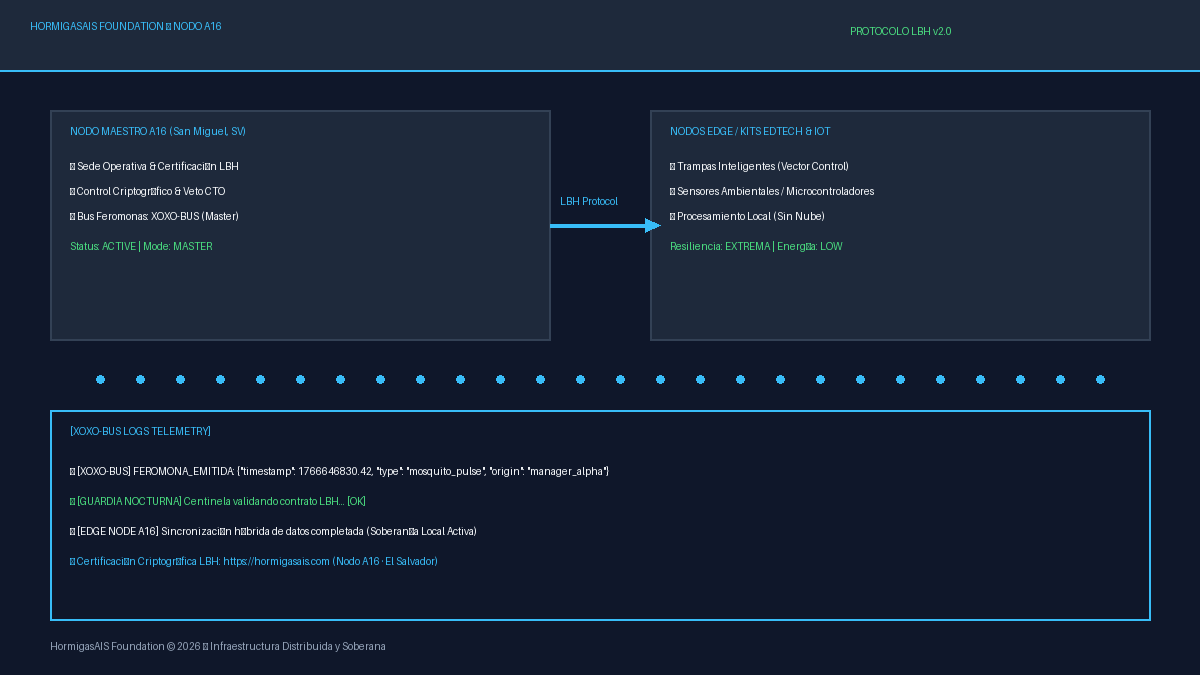
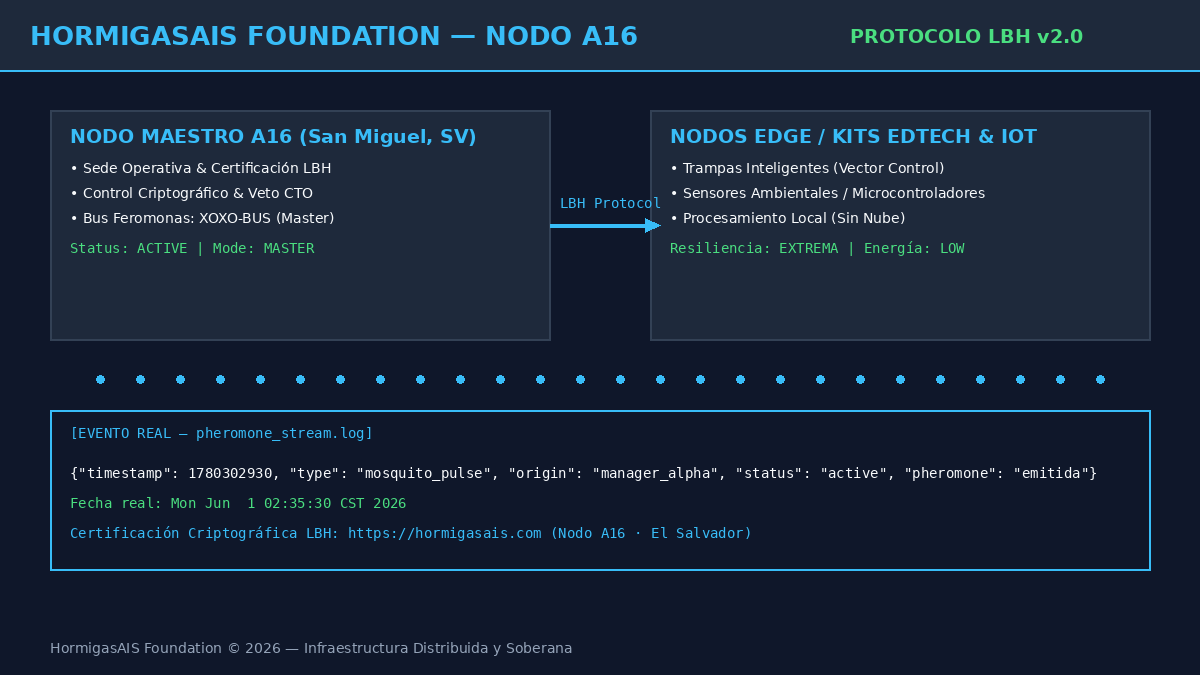
docs: fix architecture image with real telemetry data, remove fabricated version

diff --git a/generate_foto3_v2.py b/generate_foto3_v2.py
@@ -1,0 +1,77 @@
+import os
+import subprocess
+from PIL import Image, ImageDraw, ImageFont
+
+# Leer el evento real del log (no fabricado)
+LOG_PATH = os.path.expanduser("~/hormigasais-core/logs/pheromone_stream.log")
+with open(LOG_PATH, "r") as f:
+    lineas = f.readlines()
+evento_real = lineas[-1].strip() if lineas else "Sin datos disponibles"
+
+# Extraer timestamp real del JSON y convertirlo a fecha legible
+import json
+try:
+    data = json.loads(evento_real)
+    ts = data.get("timestamp")
+    fecha_legible = subprocess.check_output(["date", "-d", f"@{ts}"]).decode().strip()
+except Exception:
+    fecha_legible = "Fecha no disponible"
+
+# Dimensiones del lienzo (16:9 HD)
+width, height = 1200, 675
+bg_color = (15, 23, 42)
+text_color = (248, 250, 252)
+accent_cyan = (56, 189, 248)
+accent_green = (74, 222, 128)
+box_bg = (30, 41, 59)
+border_color = (51, 65, 85)
+
+img = Image.new('RGB', (width, height), color=bg_color)
+draw = ImageDraw.Draw(img)
+
+FONT_DIR = "/data/data/com.termux/files/usr/share/fonts/TTF/"
+font_large = ImageFont.truetype(FONT_DIR + "DejaVuSans-Bold.ttf", 26)
+font_medium = ImageFont.truetype(FONT_DIR + "DejaVuSans-Bold.ttf", 19)
+font_code_small = ImageFont.truetype(FONT_DIR + "DejaVuSansMono.ttf", 14)
+font_small = ImageFont.truetype(FONT_DIR + "DejaVuSans.ttf", 14)
+
+draw.rectangle([0, 0, width, 70], fill=(30, 41, 59))
+draw.text((30, 20), "HORMIGASAIS FOUNDATION — NODO A16", font=font_large, fill=accent_cyan)
+draw.text((850, 25), "PROTOCOLO LBH v2.0", font=font_medium, fill=accent_green)
+draw.line([(0, 70), (width, 70)], fill=accent_cyan, width=2)
+
+draw.rectangle([50, 110, 550, 340], fill=box_bg, outline=border_color, width=2)
+draw.text((70, 125), "NODO MAESTRO A16 (San Miguel, SV)", font=font_medium, fill=accent_cyan)
+draw.text((70, 160), "• Sede Operativa & Certificación LBH", font=font_small, fill=text_color)
+draw.text((70, 185), "• Control Criptográfico & Veto CTO", font=font_small, fill=text_color)
+draw.text((70, 210), "• Bus Feromonas: XOXO-BUS (Master)", font=font_small, fill=text_color)
+draw.text((70, 240), "Status: ACTIVE | Mode: MASTER", font=font_code_small, fill=accent_green)
+
+draw.rectangle([650, 110, 1150, 340], fill=box_bg, outline=border_color, width=2)
+draw.text((670, 125), "NODOS EDGE / KITS EDTECH & IOT", font=font_medium, fill=accent_cyan)
+draw.text((670, 160), "• Trampas Inteligentes (Vector Control)", font=font_small, fill=text_color)
+draw.text((670, 185), "• Sensores Ambientales / Microcontroladores", font=font_small, fill=text_color)
+draw.text((670, 210), "• Procesamiento Local (Sin Nube)", font=font_small, fill=text_color)
+draw.text((670, 240), "Resiliencia: EXTREMA | Energía: LOW", font=font_code_small, fill=accent_green)
+
+draw.line([(550, 225), (650, 225)], fill=accent_cyan, width=4)
+draw.polygon([(645, 218), (660, 225), (645, 232)], fill=accent_cyan)
+draw.text((560, 195), "LBH Protocol", font=font_code_small, fill=accent_cyan)
+
+dots_x = range(100, 1120, 40)
+for x in dots_x:
+    draw.ellipse([x-4, 375, x+4, 383], fill=accent_cyan)
+
+draw.rectangle([50, 410, 1150, 570], fill=(15, 23, 42), outline=accent_cyan, width=2)
+draw.text((70, 425), "[EVENTO REAL — pheromone_stream.log]", font=font_code_small, fill=accent_cyan)
+draw.text((70, 465), evento_real, font=font_code_small, fill=text_color)
+draw.text((70, 495), f"Fecha real: {fecha_legible}", font=font_code_small, fill=accent_green)
+draw.text((70, 525), "Certificación Criptográfica LBH: https://hormigasais.com (Nodo A16 · El Salvador)", font=font_code_small, fill=accent_cyan)
+
+draw.text((50, 640), "HormigasAIS Foundation © 2026 — Infraestructura Distribuida y Soberana", font=font_small, fill=(148, 163, 184))
+
+output_path = "krea/annexes/Foto_3_Arquitectura_Nodos_Kit_EdTech_v2.png"
+img.save(output_path)
+print(f"✅ Imagen generada con datos reales: {output_path}")
+print(f"Evento usado: {evento_real}")
+print(f"Fecha real: {fecha_legible}")

diff --git a/evidence/README.md b/evidence/README.md
@@ -60,3 +60,15 @@ Versiones preliminares (v1, v2) fueron descartadas del repositorio.
 
 Referencia: [contrato-vinculante-socios-gobernanza-financiera-krea2026-final.pdf](../krea/annexes/) ·
 marco de custodia en [docs.hormigasais.com/legal.html](https://docs.hormigasais.com/legal.html)
+
+## Imagen — Arquitectura de Nodos y Kit EdTech
+
+| Campo | Valor |
+|---|---|
+| Archivo | `krea/annexes/Foto_3_Arquitectura_Nodos_Kit_EdTech.png` |
+| Fuente de datos | Evento real leído de `hormigasais-core/logs/pheromone_stream.log` |
+| Evento mostrado | `timestamp: 1780302930`, `type: mosquito_pulse`, `origin: manager_alpha` |
+| Fecha real del evento | 2026-06-01 02:35:30 CST |
+| Generado por | `generate_foto3_v2.py` (lee el log directamente, sin datos fabricados) |
+| Nota | La imagen muestra un evento puntual real capturado del bus de feromonas, no una transmisión continua en vivo. |
+
